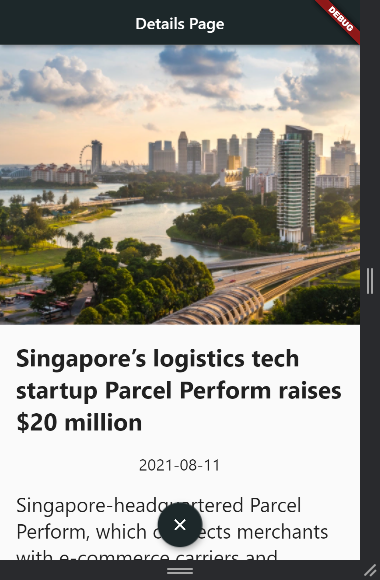
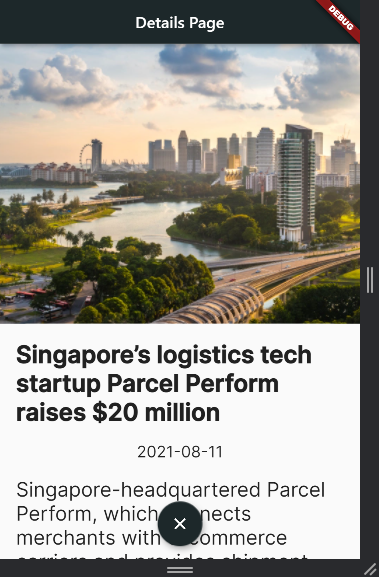
change fonts

diff --git a/lib/details_page.dart b/lib/details_page.dart
@@ -1,4 +1,5 @@
 import 'package:flutter/material.dart';
+import 'package:google_fonts/google_fonts.dart';
 
 class DetailsPage extends StatefulWidget {
   final title, author, urlToImage, publishedAt, description;
@@ -51,15 +52,15 @@ class _DetailsPageState extends State<DetailsPage> {
                         padding: EdgeInsets.fromLTRB(20.0, 20.0, 20.0, 20.0),
                         child: Text(
                           widget.title,
-                          style: TextStyle(
+                          style: GoogleFonts.inter(
                             fontSize: 30.0,
-                            fontWeight: FontWeight.bold,
+                            fontWeight: FontWeight.w600,
                           ),
                         ),
                       ),
                       Text(
                         widget.publishedAt.substring(0, 10),
-                        style: TextStyle(
+                        style: GoogleFonts.inter(
                           fontSize: 20.0,
                         ),
                       ),
@@ -67,14 +68,14 @@ class _DetailsPageState extends State<DetailsPage> {
                         padding: EdgeInsets.all(20.0),
                         child: Text(
                           widget.description,
-                          style: TextStyle(
+                          style: GoogleFonts.inter(
                             fontSize: 25.0,
                           ),
                         ),
                       ),
                       Text(
                         widget.author,
-                        style: TextStyle(
+                        style: GoogleFonts.inter(
                           fontSize: 15.0,
                         ),
                       ),

diff --git a/lib/home_page.dart b/lib/home_page.dart
@@ -1,5 +1,6 @@
 import 'dart:convert';
 import 'package:flutter/material.dart';
+import 'package:google_fonts/google_fonts.dart';
 import 'package:http/http.dart' as http;
 import 'package:card_swiper/card_swiper.dart';
 import 'package:news_app/details_page.dart';
@@ -28,7 +29,9 @@ class _HomePageState extends State<HomePage> {
           title: new Center(
             child: Text(
               "News Page",
-              style: TextStyle(color: Colors.white),
+              style: TextStyle(
+                color: Colors.white,
+              ),
             ),
           ),
           automaticallyImplyLeading: false,
@@ -83,9 +86,9 @@ class _HomePageState extends State<HomePage> {
                                     EdgeInsets.fromLTRB(20.0, 20.0, 10.0, 20.0),
                                 child: Text(
                                   _get[index]["title"],
-                                  style: TextStyle(
+                                  style: GoogleFonts.inter(
                                     fontSize: 25.0,
-                                    fontWeight: FontWeight.bold,
+                                    fontWeight: FontWeight.w600,
                                   ),
                                 ),
                               ),
